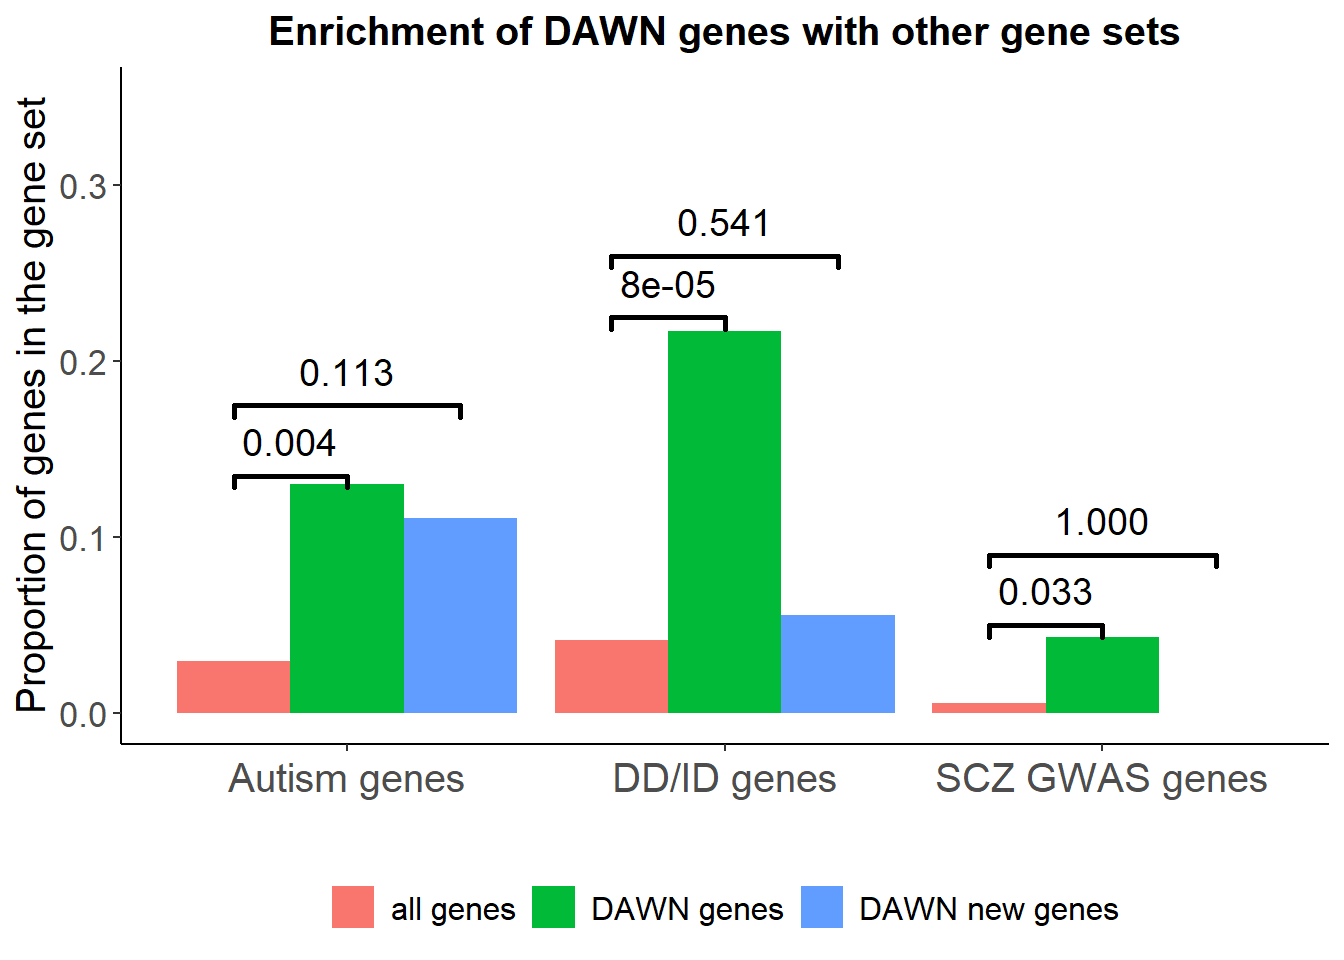
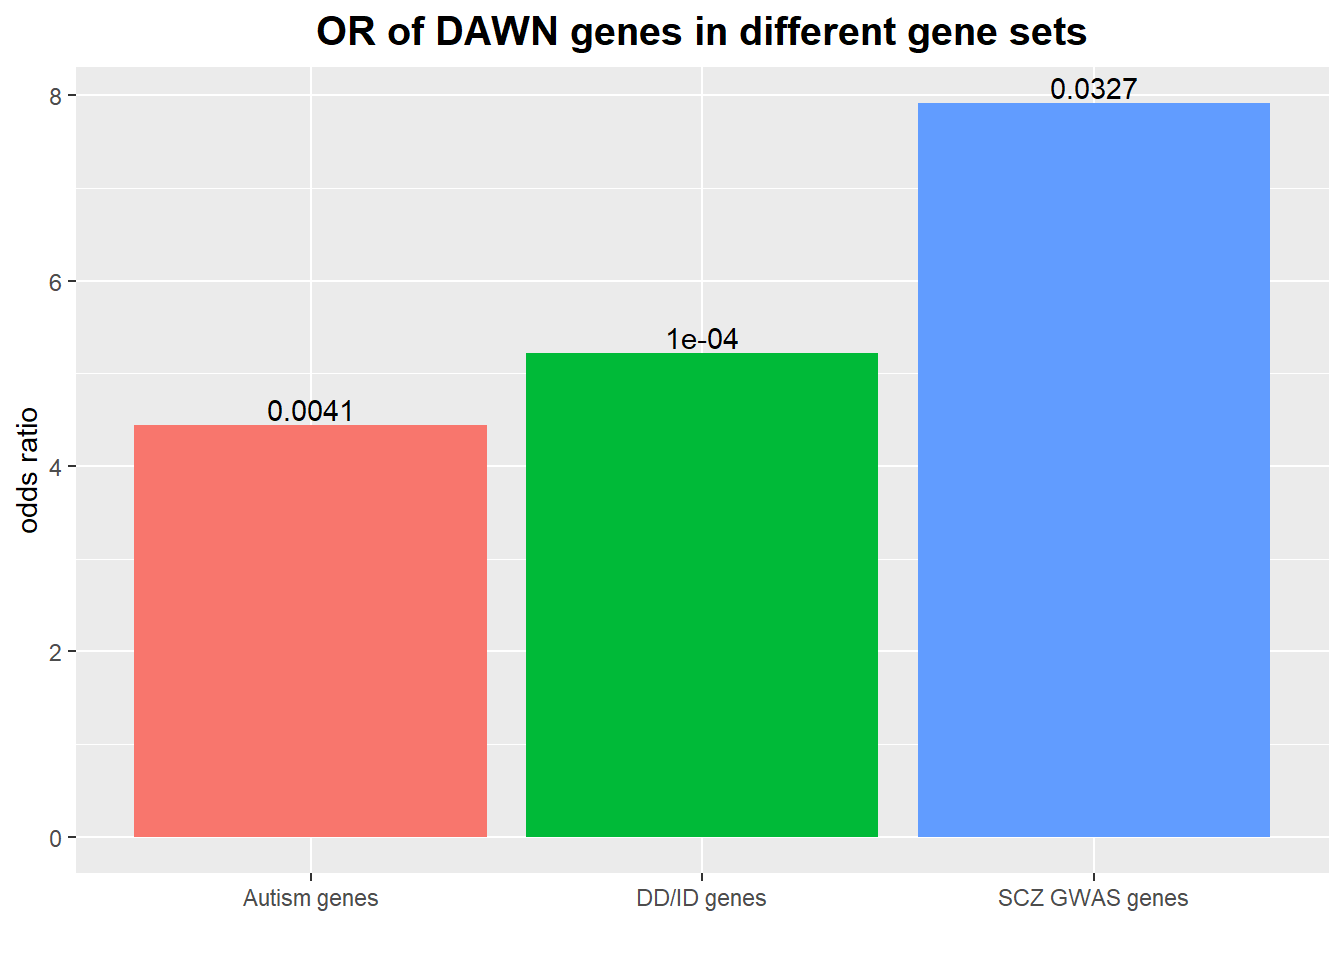
5/6/2024

diff --git a/docs/part3.html b/docs/part3.html
@@ -388,7 +388,7 @@ aria-hidden="true"></span> </a>
 <div class="tab-content">
 <div id="summary" class="tab-pane fade in active">
 <p>
-<strong>Last updated:</strong> 2024-05-02
+<strong>Last updated:</strong> 2024-05-06
 </p>
 <p>
 <strong>Checks:</strong> <span
@@ -588,15 +588,15 @@ data/dat_pfc35_20240328.RData
 <div class="panel panel-default">
 <div class="panel-heading">
 <p class="panel-title">
-<a data-toggle="collapse" data-parent="#workflowr-checks" href="#strongRepositoryversionstrongahrefhttpsgithubcomhan16multiomicstreefd1cce3c22e2419e308d3e7aa6c6bf464b93ddf5targetblankfd1cce3a">
+<a data-toggle="collapse" data-parent="#workflowr-checks" href="#strongRepositoryversionstrongahrefhttpsgithubcomhan16multiomicstreed03399058323a650ce5e7033a354fad4e67da857targetblankd033990a">
 <span class="glyphicon glyphicon-ok text-success"
 aria-hidden="true"></span> <strong>Repository version:</strong>
-<a href="https://github.com/han16/multi_omics/tree/fd1cce3c22e2419e308d3e7aa6c6bf464b93ddf5" target="_blank">fd1cce3</a>
+<a href="https://github.com/han16/multi_omics/tree/d03399058323a650ce5e7033a354fad4e67da857" target="_blank">d033990</a>
 </a>
 </p>
 </div>
 <div
[2 lines of base64/hex data omitted]
 class="panel-collapse collapse">
 <div class="panel-body">
 <p>
@@ -606,7 +606,7 @@ reproducibility.
 </p>
 <p>
 The results in this page were generated with repository version
-<a href="https://github.com/han16/multi_omics/tree/fd1cce3c22e2419e308d3e7aa6c6bf464b93ddf5" target="_blank">fd1cce3</a>.
+<a href="https://github.com/han16/multi_omics/tree/d03399058323a650ce5e7033a354fad4e67da857" target="_blank">d033990</a>.
 See the <em>Past versions</em> tab to see a history of the changes made
 to the R Markdown and HTML files.
 </p>
@@ -631,11 +631,9 @@ Ignored files:
     Ignored:    analysis/part6_cache/
 
 Untracked files:
-    Untracked:  analysis/VennDiagram.2024-05-02_11-07-13.705257.log
-    Untracked:  analysis/VennDiagram.2024-05-02_11-16-31.848314.log
+    Untracked:  analysis/VennDiagram.2024-05-06_09-39-02.202413.log
 
 Unstaged changes:
-    Modified:   analysis/part2.Rmd
     Modified:   analysis/part3.Rmd
 
 </code></pre>
@@ -681,6 +679,40 @@ Message
 </tr>
 </thead>
 <tbody>
+<tr>
+<td>
+Rmd
+</td>
+<td>
+<a href="https://github.com/han16/multi_omics/blob/d03399058323a650ce5e7033a354fad4e67da857/analysis/part3.Rmd" target="_blank">d033990</a>
+</td>
+<td>
+han
+</td>
+<td>
+2024-05-02
+</td>
+<td>
+5/2/2024
+</td>
+</tr>
+<tr>
+<td>
+html
+</td>
+<td>
+<a href="https://rawcdn.githack.com/han16/multi_omics/d03399058323a650ce5e7033a354fad4e67da857/docs/part3.html" target="_blank">d033990</a>
+</td>
+<td>
+han
+</td>
+<td>
+2024-05-02
+</td>
+<td>
+5/2/2024
+</td>
+</tr>
 <tr>
 <td>
 Rmd
@@ -797,93 +829,63 @@ han
 </table>
 </div>
 </div>
+<div id="dawn-genes-overlpping-with-autism" class="section level3">
+<h3>DAWN genes overlpping with autism</h3>
+<pre class="r"><code>intersect(genes_pfc35, ASC_gene)</code></pre>
+<pre><code>[1] &quot;ASH1L&quot;   &quot;CGREF1&quot;  &quot;FAM120A&quot; &quot;KDM6B&quot;   &quot;ZMYM2&quot;   &quot;ZMYND11&quot;</code></pre>
+<pre class="r"><code>fisher.test(matrix(c(3100, 46, length(intersect(colnames(dat_pfc35), ASC_gene)), length(intersect(genes_pfc35, ASC_gene))), nrow=2))</code></pre>
+<pre><code>
+    Fisher&#39;s Exact Test for Count Data
+
+data:  matrix(c(3100, 46, length(intersect(colnames(dat_pfc35), ASC_gene)), length(intersect(genes_pfc35, ASC_gene))), nrow = 2)
+p-value = 0.004104
+alternative hypothesis: true odds ratio is not equal to 1
+95 percent confidence interval:
+  1.51063 10.79097
+sample estimates:
+odds ratio 
+  4.438854 </code></pre>
+</div>
+<div id="dawn-genes-overlpping-with-ddid" class="section level3">
+<h3>DAWN genes overlpping with DD/ID</h3>
+<pre class="r"><code>intersect(genes_pfc35, DD_ID_gene)</code></pre>
+<pre><code> [1] &quot;ASH1L&quot;   &quot;CACNA1G&quot; &quot;GRIN2A&quot;  &quot;KDM6B&quot;   &quot;NR4A2&quot;   &quot;SRRM2&quot;   &quot;STAG1&quot;  
+ [8] &quot;TRIO&quot;    &quot;ZMYM2&quot;   &quot;ZMYND11&quot;</code></pre>
+<pre class="r"><code>fisher.test(matrix(c(3100, 46, length(intersect(colnames(dat_pfc35), DD_ID_gene)), length(intersect(genes_pfc35, DD_ID_gene))), nrow=2))</code></pre>
+<pre><code>
+    Fisher&#39;s Exact Test for Count Data
+
+data:  matrix(c(3100, 46, length(intersect(colnames(dat_pfc35), DD_ID_gene)), length(intersect(genes_pfc35, DD_ID_gene))), nrow = 2)
+p-value = 8.931e-05
+alternative hypothesis: true odds ratio is not equal to 1
+95 percent confidence interval:
+  2.295333 10.786560
+sample estimates:
+odds ratio 
+  5.218651 </code></pre>
+</div>
+<div id="dawn-genes-overlpping-with-scz-gwas-gene"
+class="section level3">
+<h3>DAWN genes overlpping with SCZ GWAS gene</h3>
+<pre class="r"><code>intersect(genes_pfc35, SCZ_GWAS_gene)</code></pre>
+<pre><code>[1] &quot;GRIN2A&quot; &quot;SP4&quot;   </code></pre>
+<pre class="r"><code>fisher.test(matrix(c(3100, 46, length(intersect(colnames(dat_pfc35), SCZ_GWAS_gene)), length(intersect(genes_pfc35, SCZ_GWAS_gene))), nrow=2))</code></pre>
+<pre><code>
+    Fisher&#39;s Exact Test for Count Data
+
+data:  matrix(c(3100, 46, length(intersect(colnames(dat_pfc35), SCZ_GWAS_gene)), length(intersect(genes_pfc35, SCZ_GWAS_gene))), nrow = 2)
+p-value = 0.03269
+alternative hypothesis: true odds ratio is not equal to 1
+95 percent confidence interval:
+  0.8624537 34.9613068
+sample estimates:
+odds ratio 
+  7.913397 </code></pre>
+</div>
 </div>
 <div id="or-of-dawn-genes-in-different-gene-sets"
 class="section level2">
 <h2>OR of DAWN genes in different gene sets</h2>
-<p><img src="figure/part3.Rmd/unnamed-chunk-6-1.png" width="672" style="display: block; margin: auto;" /></p>
-<p>
-<button type="button" class="btn btn-default btn-xs btn-workflowr btn-workflowr-fig" data-toggle="collapse" data-target="#fig-unnamed-chunk-6-1">
-Past versions of unnamed-chunk-6-1.png
-</button>
-</p>
-<div id="fig-unnamed-chunk-6-1" class="collapse">
-<div class="table-responsive">
-<table class="table table-condensed table-hover">
-<thead>
-<tr>
-<th>
-Version
-</th>
-<th>
-Author
-</th>
-<th>
-Date
-</th>
-</tr>
-</thead>
-<tbody>
-<tr>
-<td>
-<a href="https://github.com/han16/multi_omics/blob/afb290c8c6568bb701909941259b4265610c2b1b/docs/figure/part3.Rmd/unnamed-chunk-6-1.png" target="_blank">afb290c</a>
-</td>
-<td>
-han
-</td>
-<td>
-2024-04-26
-</td>
-</tr>
-</tbody>
-</table>
-</div>
-</div>
-<ul>
-<li>numbers over bars are p values.</li>
-</ul>
-</div>
-<div id="enrichment-of-dawn-new-genes-with-other-gene-sets"
-class="section level2">
-<h2>enrichment of DAWN (new) genes with other gene sets</h2>
-<p><img src="figure/part3.Rmd/unnamed-chunk-7-1.png" width="672" style="display: block; margin: auto;" /></p>
-<p>
-<button type="button" class="btn btn-default btn-xs btn-workflowr btn-workflowr-fig" data-toggle="collapse" data-target="#fig-unnamed-chunk-7-1">
-Past versions of unnamed-chunk-7-1.png
-</button>
-</p>
-<div id="fig-unnamed-chunk-7-1" class="collapse">
-<div class="table-responsive">
-<table class="table table-condensed table-hover">
-<thead>
-<tr>
-<th>
-Version
-</th>
-<th>
-Author
-</th>
-<th>
-Date
-</th>
-</tr>
-</thead>
-<tbody>
-<tr>
-<td>
-<a href="https://github.com/han16/multi_omics/blob/afb290c8c6568bb701909941259b4265610c2b1b/docs/figure/part3.Rmd/unnamed-chunk-7-1.png" target="_blank">afb290c</a>
-</td>
-<td>
-han
-</td>
-<td>
-2024-04-26
-</td>
-</tr>
-</tbody>
-</table>
-</div>
-</div>
 <p><img src="figure/part3.Rmd/unnamed-chunk-9-1.png" width="672" style="display: block; margin: auto;" /></p>
 <p>
 <button type="button" class="btn btn-default btn-xs btn-workflowr btn-workflowr-fig" data-toggle="collapse" data-target="#fig-unnamed-chunk-9-1">
@@ -933,6 +935,15 @@ han
 </table>
 </div>
 </div>
+<ul>
+<li>numbers over bars are p values.</li>
+</ul>
+</div>
+<div id="enrichment-of-dawn-new-genes-with-other-gene-sets"
+class="section level2">
+<h2>enrichment of DAWN (new) genes with other gene sets</h2>
+<p><img src="figure/part3.Rmd/unnamed-chunk-10-1.png" width="672" style="display: block; margin: auto;" /></p>
+<p><img src="figure/part3.Rmd/unnamed-chunk-12-1.png" width="672" style="display: block; margin: auto;" /></p>
 <br>
 <p>
 <button type="button" class="btn btn-default btn-workflowr btn-workflowr-sessioninfo" data-toggle="collapse" data-target="#workflowr-sessioninfo" style="display: block;">
